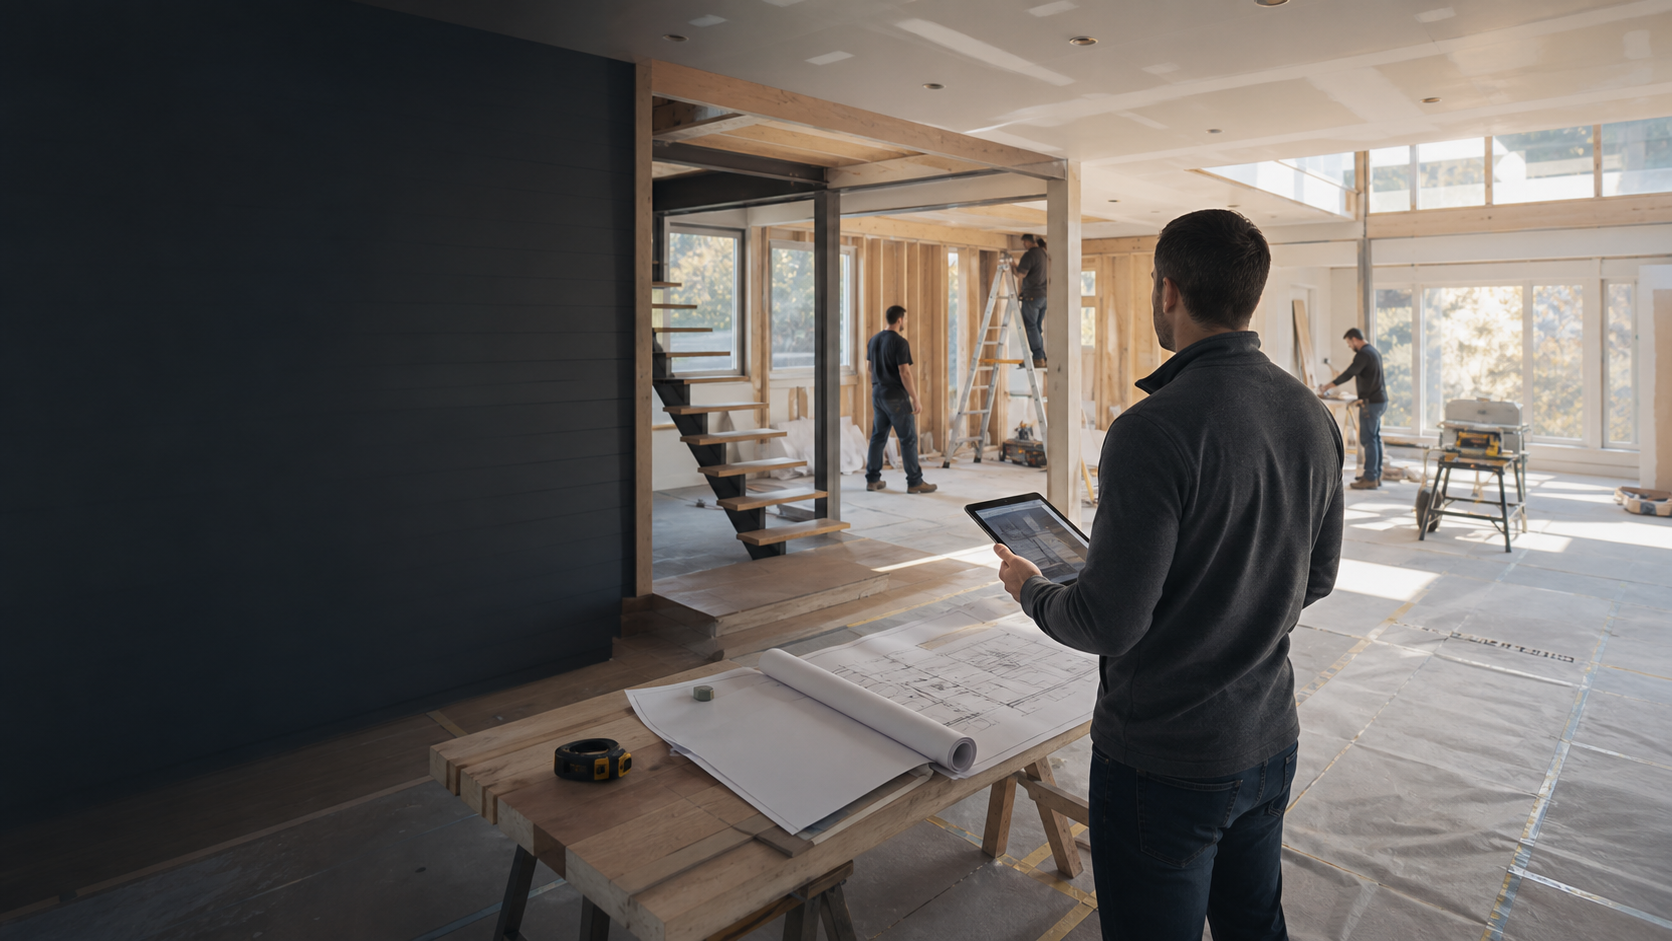
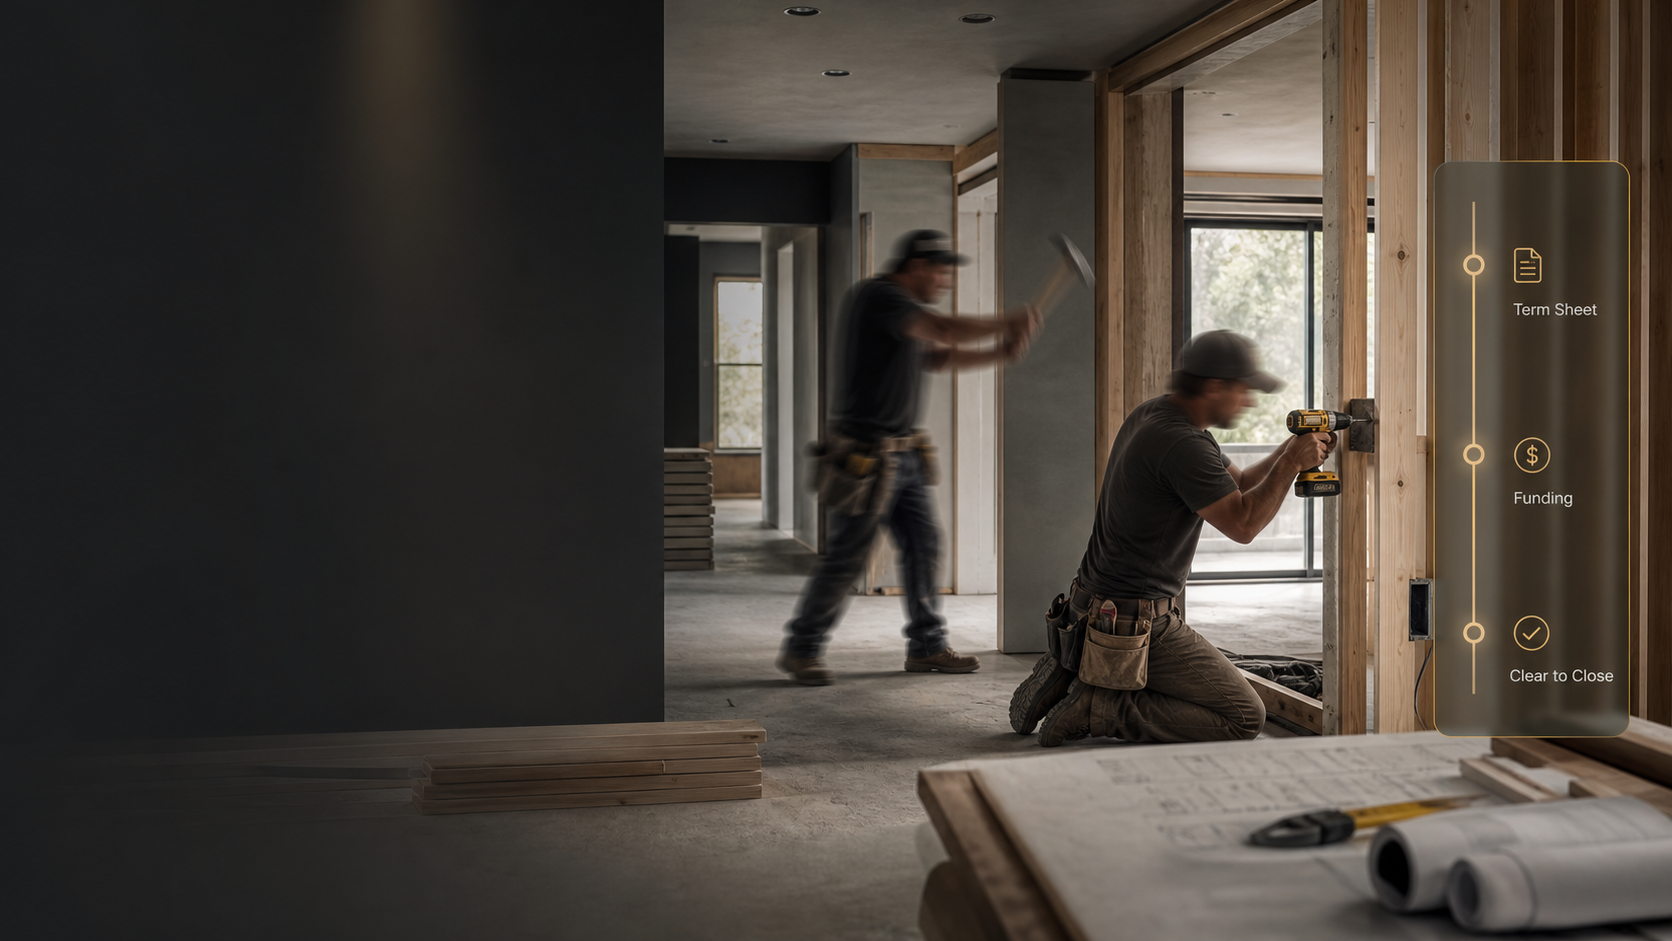
Refresh hero with renovation motion

diff --git a/components/landing/Hero.tsx b/components/landing/Hero.tsx
@@ -132,7 +132,7 @@ const Hero = () => {
       <div className="absolute inset-0 z-0">
         <Image
           src="/renovation-funding-hero.png"
-          alt="Investment property renovation in progress with plans being reviewed for funding"
+          alt="Investment property renovation in progress with hammers and drills in motion while funding is being reviewed"
           fill
           className="hero-renovation-motion object-cover"
           priority
